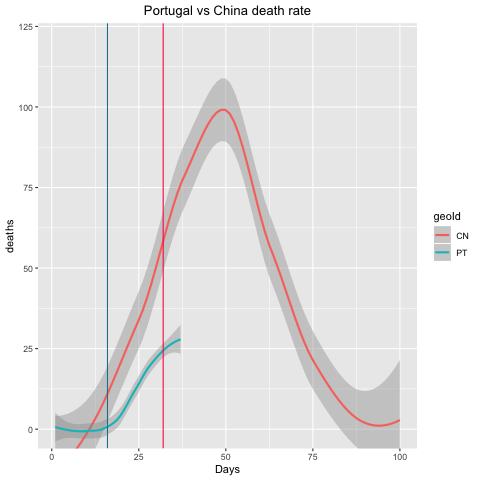
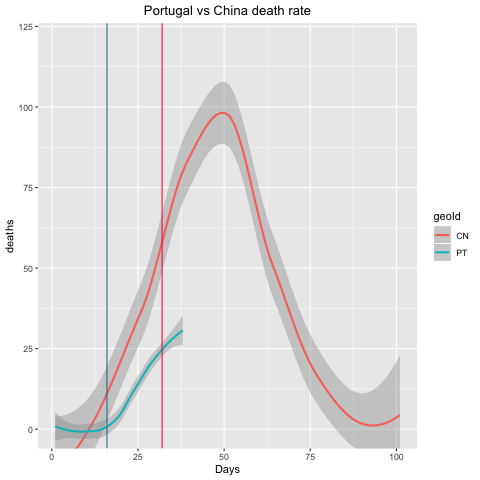
Daily commit

diff --git a/README.md b/README.md
@@ -11,29 +11,29 @@ I'll keep this repo with the graphs daily updated.
 
 *Obtained with the script* `propagationMap.R`
 
-### Updated World Values - 2020/04/08
+### Updated World Values - 2020/04/09
 __Total Deaths per Country - worst 10__
 
 |geoId | deaths|
 |:-----|------:|
-|IT    |  17129|
-|ES    |  13798|
-|US    |  12895|
-|FR    |  10328|
-|UK    |   6159|
-|IR    |   3872|
-|CN    |   3337|
-|NL    |   2101|
-|BE    |   2035|
-|DE    |   1861|
+|IT    |  17669|
+|US    |  14817|
+|ES    |  14555|
+|FR    |  10869|
+|UK    |   7097|
+|IR    |   3993|
+|CN    |   3339|
+|NL    |   2248|
+|BE    |   2240|
+|DE    |   2107|
 
-__Total Death Count__: 81478
+__Total Death Count__: 87816
 
-__Portugal in Detail at 2020/04/08__ *sourced from https://www.worldometers.info/*
+__Portugal in Detail at 2020/04/09__ *sourced from https://www.worldometers.info/*
 
-|Country,Other |TotalCases |NewCases |TotalDeaths |NewDeaths |TotalRecovered |ActiveCases |Serious,Critical |Tot Cases/1M pop |Deaths/1M pop |TotalTests |Tests/1M pop |
-|:-------------|:----------|:--------|:-----------|:---------|:--------------|:-----------|:----------------|:----------------|:-------------|:----------|:------------|
-|Portugal      |13,141     |+699     |380         |+35       |196            |12,565      |245              |1,289            |37            |128,784    |12,630       |
+|Country,Other |TotalCases |NewCases |TotalDeaths |NewDeaths |TotalRecovered |ActiveCases |Serious,Critical |Tot Cases/1M pop |Deaths/1M pop |TotalTests |Tests/1M pop |Continent |
+|:-------------|:----------|:--------|:-----------|:---------|:--------------|:-----------|:----------------|:----------------|:-------------|:----------|:------------|:---------|
+|Portugal      |13,956     |+815     |409         |+29       |205            |13,342      |241              |1,369            |40            |140,368    |13,766       |Europe    |
 
 ### Scripts
 `script.R` performs the data preparation and then followed by the steps required as described:
